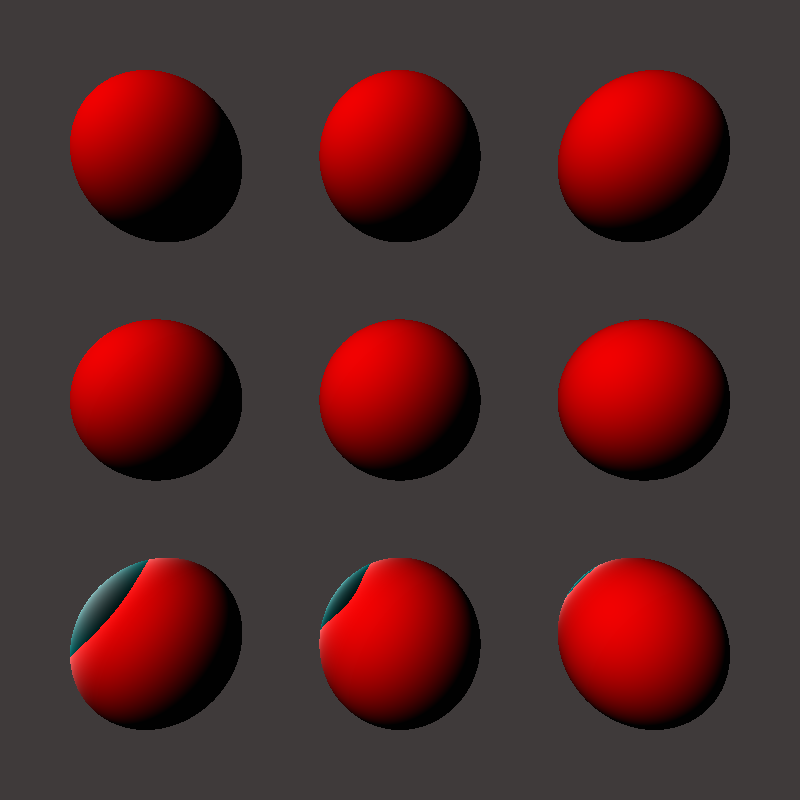
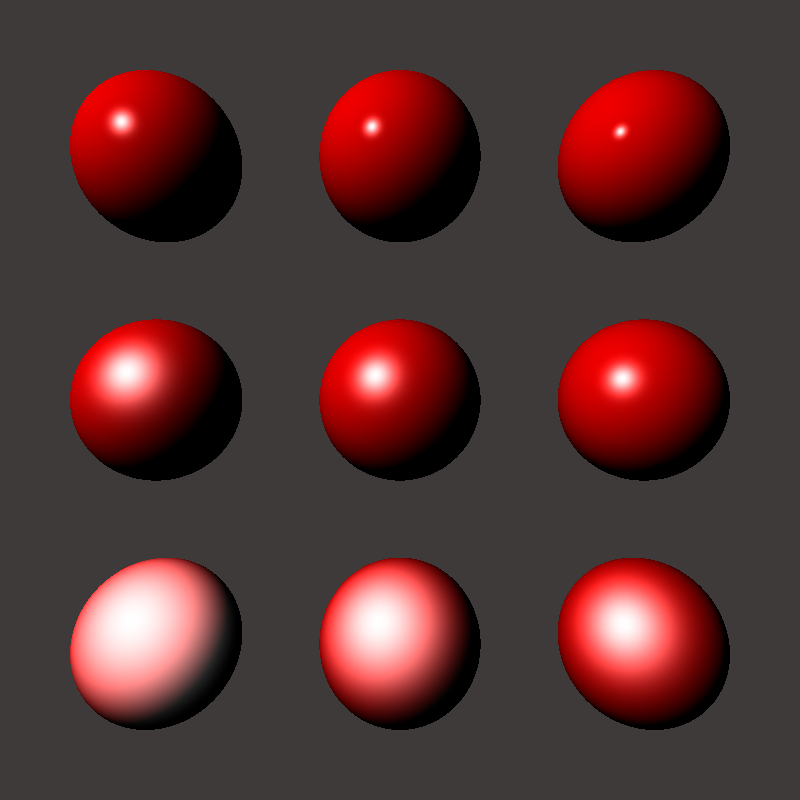
Working on BlinnPhong

diff --git a/renderer/BlinnPhong.cpp b/renderer/BlinnPhong.cpp
@@ -8,7 +8,7 @@
 
 
 sivelab::Vector3D BlinnPhong::applyShader(Ray &r, std::vector<Light *> &lights, std::vector<Shape *> &shapes, HitStruct &h ){
-    sivelab::Vector3D newColor(-1,-1,-1);
+    sivelab::Vector3D newColor(0,0,0);
 
     for(int i = 0; i < lights.size(); i++) {
         sivelab::Vector3D lightP = lights[i]->getPosition();
@@ -20,14 +20,16 @@ sivelab::Vector3D BlinnPhong::applyShader(Ray &r, std::vector<Light *> &lights, 
         sivelab::Vector3D normal = h.getNorm();
         normal.normalize();
 
-        sivelab::Vector3D H = (lightDir + r.getDirection());
+        sivelab::Vector3D H = (lightDir + (r.getDirection())*-1);
         H.normalize();
 
 
         float Ks = pow(std::max((float)normal.dot(H),0.0f),phongExp);
 
-        newColor +=  specular * Ks + lights[i]->getIntensity() * getColor() * sivelab::Vector3D(1, 1, 1) *
+        newColor +=  lights[i]->getIntensity() * getColor() * sivelab::Vector3D(1, 1, 1) *
                     std::max(0.0f, (float) normal.dot(lightDir));
+
+        newColor += specular * Ks;
 
     }
 
